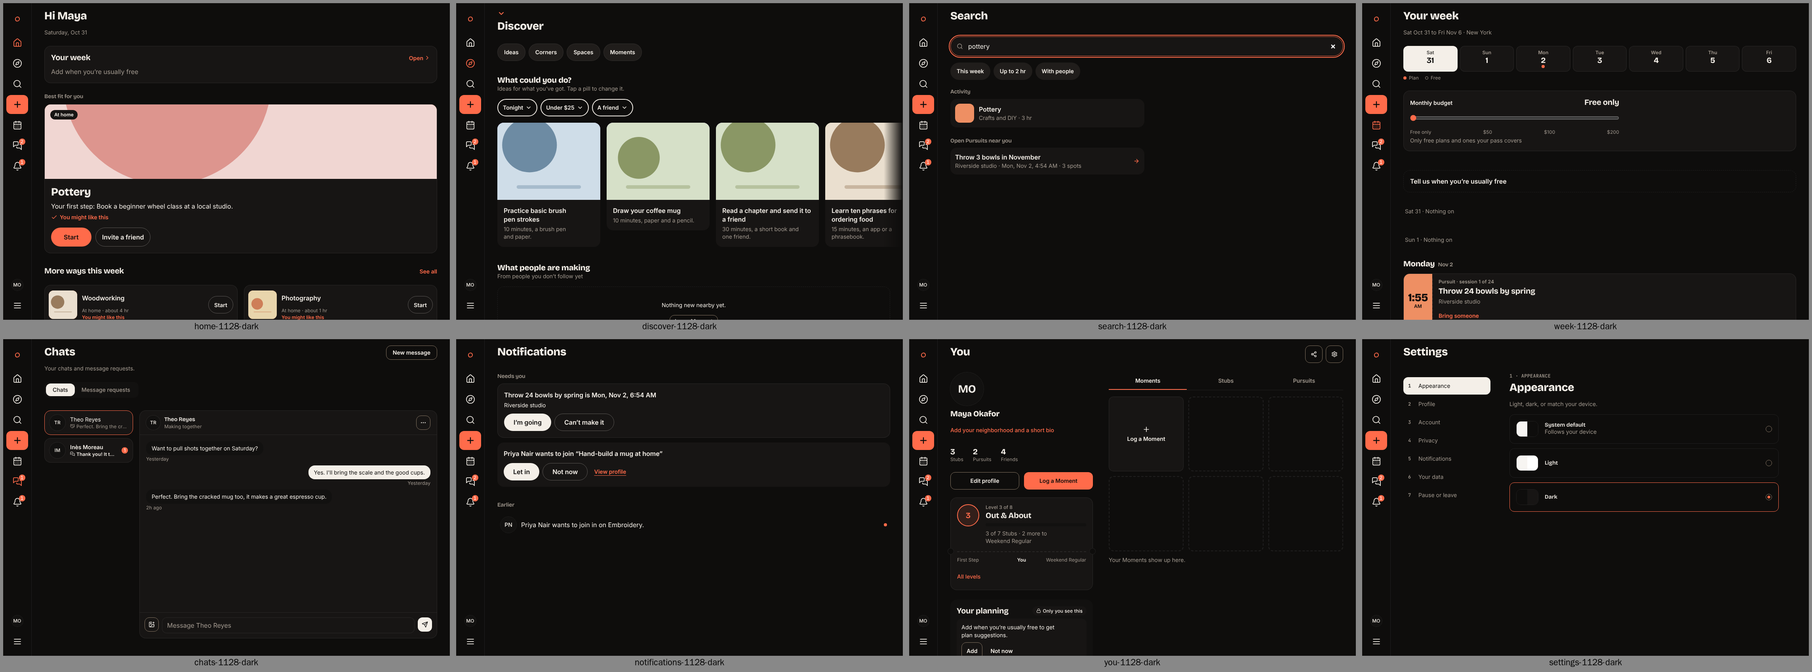
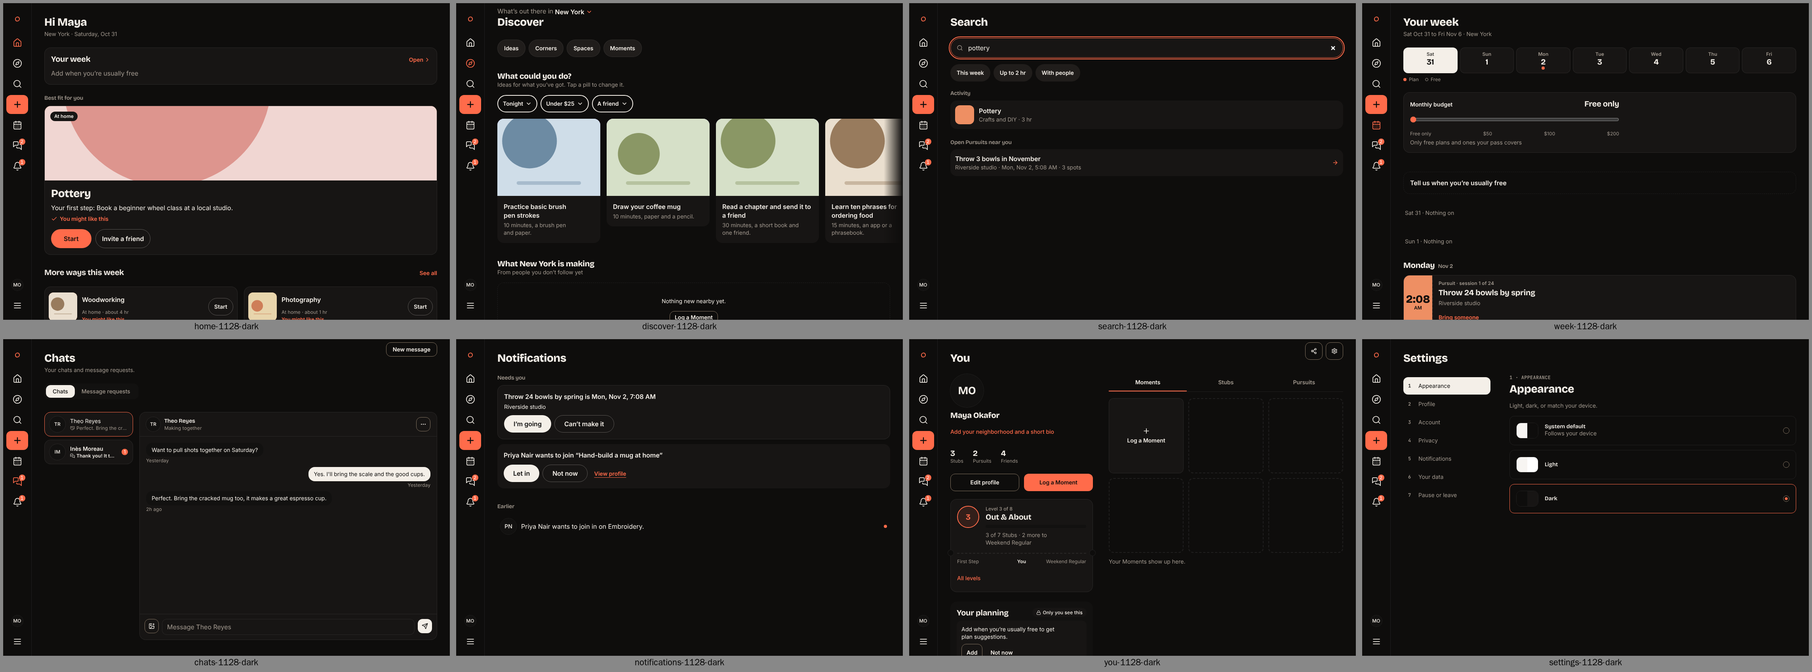
PR 5: every title at the same height, Near you kicker, Settings and Search fill the page width, strict Playwright title check
Claude-Session: https://claude.ai/code/session_014X1CC4xnjowkQqhym65nm4

diff --git a/scripts/visual/page-shell.ts b/scripts/visual/page-shell.ts
@@ -6,8 +6,8 @@
 //
 // Checks, per page / width / theme:
 //   - the visible title: the element that actually holds the title's text (not just the <h1>) is 28px / 800
-//   - the header's top, the title's left and the content width are the same on every page at a given width
-//     (a kicker line, Discover's, only moves its title down by its own height)
+//   - the rendered title text (its height, left and top) and the header row (left and right edge) agree between
+//     every page to within 1px at each width and theme
 //   - at most one coral fill inside the page (the rail's Log sits outside it)
 //   - no sideways page scroll
 //   - no hard-clipped row: a sideways scroller with more to see must bleed to the screen edge on a phone, and fade
@@ -49,6 +49,21 @@ function measure() {
     for (let n = w.nextNode(); n; n = w.nextNode()) if ((n.textContent ?? "").trim()) { holder = n.parentElement; break; }
   }
   const hs = holder ? getComputedStyle(holder) : null;
+  // The rendered text itself (what the eye sees), not a box that could be taller than its words.
+  let text = { left: -1, top: -1, height: -1 };
+  if (h1) {
+    const w2 = document.createTreeWalker(h1, NodeFilter.SHOW_TEXT);
+    for (let n = w2.nextNode(); n; n = w2.nextNode()) {
+      if (!(n.textContent ?? "").trim()) continue;
+      const rg = document.createRange();
+      rg.selectNodeContents(n);
+      const rr = rg.getBoundingClientRect();
+      text = { left: Math.round(rr.left * 10) / 10, top: Math.round(rr.top * 10) / 10, height: Math.round(rr.height * 10) / 10 };
+      break;
+    }
+  }
+  const row = h1?.closest("header")?.firstElementChild as HTMLElement | null;
+  const rowRect = row?.getBoundingClientRect();
   const inner = h1?.closest("header")?.parentElement as HTMLElement | null;
   const coral = [...document.querySelectorAll("main *")].filter((e) => {
     const b = e.getBoundingClientRect();
@@ -91,6 +106,11 @@ function measure() {
     headerTop: Math.round(header?.getBoundingClientRect().top ?? -1),
     kickerH,
     subLines,
+    textLeft: text.left,
+    textTop: text.top,
+    textH: text.height,
+    rowLeft: Math.round((rowRect?.left ?? -1) * 10) / 10,
+    rowRight: Math.round((rowRect?.right ?? -1) * 10) / 10,
     title: h1?.textContent?.trim().slice(0, 28) ?? "-",
     h1Size: h1 ? getComputedStyle(h1).fontSize : "-",
     size: hs?.fontSize ?? "-",
@@ -105,8 +125,8 @@ function measure() {
 }
 
 /**
- * --selftest: prove the checks can fail. Strips the edge fade from every row and shrinks the titles, on Week and
- * Discover at 1440, and fails unless the clip and the size checks both fire.
+ * --selftest: prove the checks can fail. Strips the edge fade from every row, shrinks the titles and pushes one
+ * title down 6px, on Week and Discover at 1440, and fails unless the clip, size and position checks all fire.
  */
 const selftest = async () => {
   const dist = path.resolve(opt("dist") ?? path.join(OUT, ".dist"));
@@ -116,6 +136,7 @@ const selftest = async () => {
   const port = (server.address() as { port: number }).port;
   const browser = await chromium.launch({ executablePath: process.env.PLAYWRIGHT_CHROMIUM });
   let clips = 0, sizes = 0;
+  const tops: number[] = [];
   for (const [, route] of PAGES.filter(([n]) => n === "week" || n === "discover")) {
     const ctx = await browser.newContext({ viewport: { width: 1440, height: 900 }, colorScheme: "light", reducedMotion: "reduce" });
     await installSupabaseMock(ctx, buildFixtures(), path.join(HERE, "database.types.ts"));
@@ -124,15 +145,19 @@ const selftest = async () => {
     await p.goto(`http://localhost:${port}/#${route}`);
     await p.waitForTimeout(2200);
     await p.addStyleTag({ content: "main * { mask-image: none !important; -webkit-mask-image: none !important } main h1, main h1 * { font-size: 22px !important }" });
+    // The second page also gets its title pushed down 6px: the equality check must see that.
+    if (tops.length === 1) await p.evaluate(() => { const h = document.querySelector("main h1") as HTMLElement; h.style.position = "relative"; h.style.top = "6px"; });
     const m = await p.evaluate(measure);
     clips += m.clips.length;
     if (m.size !== "28px") sizes++;
+    tops.push(m.textTop);
     await ctx.close();
   }
   await browser.close();
   server.close();
-  console.log(`selftest: ${clips} clip finding(s), ${sizes} size finding(s)`);
-  process.exit(clips > 0 && sizes > 0 ? 0 : 1);
+  const offset = tops.length === 2 && Math.abs(tops[0] - tops[1]) > 1;
+  console.log(`selftest: ${clips} clip finding(s), ${sizes} size finding(s), title offset ${offset ? "seen" : "NOT seen"}`);
+  process.exit(clips > 0 && sizes > 0 && offset ? 0 : 1);
 };
 
 const main = async () => {
@@ -171,19 +196,19 @@ const main = async () => {
     if (r.over !== 0) fails.push(`${id}: sideways scroll of ${r.over}px`);
     for (const c of r.clips) fails.push(`${id}: clipped: ${c}`);
   }
+  // Every page's title, as rendered, must agree to within 1px at each width and theme: the height of its text, and
+  // the left and top of the text and the left and right of the header row it sits in.
+  const TOL = 1;
   for (const w of WIDTHS) for (const th of THEMES) {
     const sub = rows.filter((r) => r.w === w && r.th === th);
-    // The header starts at the same place on every page. A page with a kicker line (Discover) has its title that much lower, and no more.
-    const lowered = sub.filter((r) => Math.abs(r.top - r.headerTop - r.kickerH) > 1);
-    for (const r of lowered) fails.push(`@${w} ${th}: ${r.page} title is ${r.top - r.headerTop}px below its header, its kicker is ${r.kickerH}px`);
-    for (const k of ["left", "width", "headerTop"] as const) {
-      const vals = new Set(sub.map((r) => r[k]));
-      if (vals.size > 1) fails.push(`@${w} ${th}: title ${k} differs: ${sub.map((r) => `${r.page}=${r[k]}`).join(", ")}`);
+    for (const k of ["textH", "textLeft", "textTop", "rowLeft", "rowRight", "headerTop", "width"] as const) {
+      const vals = sub.map((r) => r[k]);
+      if (Math.max(...vals) - Math.min(...vals) > TOL) fails.push(`@${w} ${th}: title ${k} differs by more than ${TOL}px: ${sub.map((r) => `${r.page}=${r[k]}`).join(", ")}`);
     }
   }
 
-  const md = ["# One skin, PR 5: measurements", "", "Measured in the browser against the fixture build. `Size / weight` is that of the element holding the title text, not only the h1. `Coral` counts coral fills inside the page (the rail's Log is outside it). `Clips` counts hard-clipped rows or boxes. The subtitle must be one line.", "", "| Width | Theme | Page | Title | Size / weight | Left | Header top | Title top | Kicker | Content | Coral | Sideways | Clips |", "|---|---|---|---|---|---|---|---|---|---|---|---|---|",
-    ...rows.map((r) => `| ${r.w} | ${r.th} | ${r.page} | ${r.title} | ${r.size} / ${r.weight} | ${r.left} | ${r.headerTop} | ${r.top} | ${r.kickerH} | ${r.width} | ${r.coral} | ${r.over} | ${r.clips.length} |`), "", fails.length ? `## Failures (${fails.length})\n\n${fails.map((f) => `- ${f}`).join("\n")}` : "## Result\n\nAll checks pass."];
+  const md = ["# One skin, PR 5: measurements", "", "Measured in the browser against the fixture build. `Size / weight` is that of the element holding the title text, not only the h1. `Text height`, `Text left` and `Text top` are the rendered words (a DOM range), and `Row left` / `Row right` the header row; the check fails if any page differs from another by more than 1px. `Coral` counts coral fills inside the page (the rail's Log is outside it). `Clips` counts hard-clipped rows or boxes. The subtitle must be one line.", "", "| Width | Theme | Page | Title | Size / weight | Text height | Text left | Text top | Row left | Row right | Header top | Content | Coral | Sideways | Clips |", "|---|---|---|---|---|---|---|---|---|---|---|---|---|---|---|",
+    ...rows.map((r) => `| ${r.w} | ${r.th} | ${r.page} | ${r.title} | ${r.size} / ${r.weight} | ${r.textH} | ${r.textLeft} | ${r.textTop} | ${r.rowLeft} | ${r.rowRight} | ${r.headerTop} | ${r.width} | ${r.coral} | ${r.over} | ${r.clips.length} |`), "", fails.length ? `## Failures (${fails.length})\n\n${fails.map((f) => `- ${f}`).join("\n")}` : "## Result\n\nAll checks pass."];
   fs.writeFileSync(path.join(OUT, "measurements.md"), md.join("\n") + "\n");
 
   const has = spawnSync("which", ["montage"]).status === 0;

diff --git a/src/app/components/layout/PageShell.tsx b/src/app/components/layout/PageShell.tsx
@@ -10,8 +10,8 @@ import type { HTMLAttributes, ReactNode } from "react";
  * - Header: the same top offset everywhere; the title in `text-title`
  *   (28px/800 Bricolage), an optional one-line subtitle in the muted colour, an
  *   optional action on the right. No back arrow: tab pages are not drilled into.
- *   `kicker` is the one extra line, above the title, for Discover's "What's out
- *   there in" over the city.
+ *   `kicker` is the one extra line, above the title (Discover's city picker). Its
+ *   row is reserved on every page, so no title is lower than another.
  * - Grids: lists are `PAGE_GRID` (one column, two from `desk`). A single-purpose
  *   card (Your week, Best fit for you, the glance card) spans both columns:
  *   `SPAN_GRID`. That is the one rule for those cards, on every page.
@@ -24,7 +24,7 @@ export const LIST_GRID = "grid gap-3 desk:grid-cols-2 desk:gap-4";
 /** The container alone, for a page you drill into (another person's profile) that keeps its own back bar. */
 export function PageContainer({ children, ...rest }: { children?: ReactNode } & HTMLAttributes<HTMLDivElement>) {
   return (
-    <div className="w-full px-4 pb-10 pt-4 tab:px-6 desk:px-8 max-desk:pt-[calc(var(--safe-top)+1rem)]" {...rest}>
+    <div className="w-full px-4 pb-10 pt-2 tab:px-6 desk:px-8 max-desk:pt-[calc(var(--safe-top)+0.5rem)]" {...rest}>
       <div className="mx-auto w-full max-w-[1040px]">{children}</div>
     </div>
   );
@@ -48,13 +48,14 @@ export function PageShell({
   children?: ReactNode;
 } & Omit<HTMLAttributes<HTMLDivElement>, "title">) {
   return (
-    <div className="w-full px-4 pb-10 pt-4 tab:px-6 desk:px-8 max-desk:pt-[calc(var(--safe-top)+1rem)]" {...rest}>
+    <div className="w-full px-4 pb-10 pt-2 tab:px-6 desk:px-8 max-desk:pt-[calc(var(--safe-top)+0.5rem)]" {...rest}>
       <div className="mx-auto w-full max-w-[1040px]">
         {topBar}
         <header className="mb-6">
           <div className="flex min-h-11 items-start justify-between gap-4">
-            <div className="min-w-0">
-              {kicker && <p className="text-body text-muted-foreground">{kicker}</p>}
+            <div className="min-w-0 flex-1">
+              {/* The kicker row is on every page, empty or not, so every title sits at the same height. */}
+              <p className="h-6 whitespace-nowrap text-body text-muted-foreground">{kicker}</p>
               <h1 className="text-title">{title}</h1>
             </div>
             {action && <div className="shrink-0">{action}</div>}

diff --git a/scripts/visual/fixtures.ts b/scripts/visual/fixtures.ts
@@ -164,5 +164,5 @@ export function buildFixtures(now = new Date()): Fixtures {
   // config.ts (which can't be imported here: it reads import.meta.env).
   const termsVersion = fs.readFileSync(new URL("../../src/app/config.ts", import.meta.url), "utf8").match(/TERMS_VERSION = "([^"]+)"/)?.[1] ?? "";
   const terms_acceptances = profiles.map((p) => ({ user_id: p.id, terms_version: termsVersion, accepted_at: ago(119) }));
-  return { ...empties, ...({ pursuit_sessions, pursuit_session_rsvps: [], stubs } as unknown as Fixtures), profile_follows, terms_acceptances, profiles, posts, pursuits, pursuit_members, pursuit_plans, pursuit_progress, spaces, space_members, space_moments, space_events, event_rsvps, participations, messages, notifications, profile_settings, app_config, categories };
+  return { ...empties, ...({ pursuit_sessions, pursuit_session_rsvps: [], stubs, profile_private: [{ user_id: ME, city: "New York" }] } as unknown as Fixtures), profile_follows, terms_acceptances, profiles, posts, pursuits, pursuit_members, pursuit_plans, pursuit_progress, spaces, space_members, space_moments, space_events, event_rsvps, participations, messages, notifications, profile_settings, app_config, categories };
 }

diff --git a/src/app/pages/Discover.tsx b/src/app/pages/Discover.tsx
@@ -323,11 +323,11 @@ export function Discover() {
           ) : (
             <button
               type="button"
-              aria-label="Your city"
               onClick={() => needAccount(() => setCityOpen(true))}
-              className="inline-flex items-center outline-none focus-visible:ring-2 focus-visible:ring-ring"
+              className="inline-flex items-center gap-1 align-middle font-semibold text-foreground outline-none focus-visible:ring-2 focus-visible:ring-ring"
             >
-              <ChevronDown className="size-5 shrink-0 text-accent-text" strokeWidth={2.5} aria-hidden="true" />
+              Near you
+              <ChevronDown className="size-4 shrink-0 text-accent-text" strokeWidth={2.5} aria-hidden="true" />
             </button>
           )
         }

diff --git a/src/app/pages/SearchResults.tsx b/src/app/pages/SearchResults.tsx
@@ -36,7 +36,7 @@ function Section({ id, title, children }: { id: string; title: string; children:
       <h2 id={id} className="mb-2 text-small font-semibold text-muted-foreground">
         {title}
       </h2>
-      <ul className="grid gap-2 desk:grid-cols-2 desk:gap-3">{children}</ul>
+      <ul className="flex flex-col gap-2">{children}</ul>
     </section>
   );
 }

diff --git a/src/app/components/settings/SettingsShell.tsx b/src/app/components/settings/SettingsShell.tsx
@@ -87,7 +87,7 @@ export function SettingsShell({
             })}
           </ul>
         </nav>
-        <div className="max-w-[680px]">{children}</div>
+        <div className="min-w-0">{children}</div>
       </div>
 
       {/* Mobile / below lg */}

diff --git a/docs/qa/one-skin/pr5/measurements.md b/docs/qa/one-skin/pr5/measurements.md
@@ -1,73 +1,73 @@
 # One skin, PR 5: measurements
 
-Measured in the browser against the fixture build. `Size / weight` is that of the element holding the title text, not only the h1. `Coral` counts coral fills inside the page (the rail's Log is outside it). `Clips` counts hard-clipped rows or boxes. The subtitle must be one line.
+Measured in the browser against the fixture build. `Size / weight` is that of the element holding the title text, not only the h1. `Text height`, `Text left` and `Text top` are the rendered words (a DOM range), and `Row left` / `Row right` the header row; the check fails if any page differs from another by more than 1px. `Coral` counts coral fills inside the page (the rail's Log is outside it). `Clips` counts hard-clipped rows or boxes. The subtitle must be one line.
 
-| Width | Theme | Page | Title | Size / weight | Left | Header top | Title top | Kicker | Content | Coral | Sideways | Clips |
-|---|---|---|---|---|---|---|---|---|---|---|---|---|
-| 390 | light | home | Hi Maya | 28px / 800 | 16 | 81 | 81 | 0 | 358 | 1 | 0 | 0 |
-| 390 | light | discover | Discover | 28px / 800 | 16 | 81 | 107 | 26 | 358 | 0 | 0 | 0 |
-| 390 | light | search | Search | 28px / 800 | 16 | 81 | 81 | 0 | 358 | 0 | 0 | 0 |
-| 390 | light | week | Your week | 28px / 800 | 16 | 81 | 81 | 0 | 358 | 0 | 0 | 0 |
-| 390 | light | chats | Chats | 28px / 800 | 16 | 81 | 81 | 0 | 358 | 0 | 0 | 0 |
-| 390 | light | notifications | Notifications | 28px / 800 | 16 | 81 | 81 | 0 | 358 | 0 | 0 | 0 |
-| 390 | light | you | You | 28px / 800 | 16 | 81 | 81 | 0 | 358 | 1 | 0 | 0 |
-| 390 | light | settings | Settings | 28px / 800 | 16 | 81 | 81 | 0 | 358 | 0 | 0 | 0 |
-| 744 | light | home | Hi Maya | 28px / 800 | 96 | 16 | 16 | 0 | 624 | 1 | 0 | 0 |
-| 744 | light | discover | Discover | 28px / 800 | 96 | 16 | 42 | 26 | 624 | 0 | 0 | 0 |
-| 744 | light | search | Search | 28px / 800 | 96 | 16 | 16 | 0 | 624 | 0 | 0 | 0 |
-| 744 | light | week | Your week | 28px / 800 | 96 | 16 | 16 | 0 | 624 | 0 | 0 | 0 |
-| 744 | light | chats | Chats | 28px / 800 | 96 | 16 | 16 | 0 | 624 | 0 | 0 | 0 |
-| 744 | light | notifications | Notifications | 28px / 800 | 96 | 16 | 16 | 0 | 624 | 0 | 0 | 0 |
-| 744 | light | you | You | 28px / 800 | 96 | 16 | 16 | 0 | 624 | 1 | 0 | 0 |
-| 744 | light | settings | Settings | 28px / 800 | 96 | 16 | 16 | 0 | 624 | 0 | 0 | 0 |
-| 1128 | light | home | Hi Maya | 28px / 800 | 104 | 16 | 16 | 0 | 992 | 1 | 0 | 0 |
-| 1128 | light | discover | Discover | 28px / 800 | 104 | 16 | 42 | 26 | 992 | 0 | 0 | 0 |
-| 1128 | light | search | Search | 28px / 800 | 104 | 16 | 16 | 0 | 992 | 0 | 0 | 0 |
-| 1128 | light | week | Your week | 28px / 800 | 104 | 16 | 16 | 0 | 992 | 0 | 0 | 0 |
-| 1128 | light | chats | Chats | 28px / 800 | 104 | 16 | 16 | 0 | 992 | 0 | 0 | 0 |
-| 1128 | light | notifications | Notifications | 28px / 800 | 104 | 16 | 16 | 0 | 992 | 0 | 0 | 0 |
-| 1128 | light | you | You | 28px / 800 | 104 | 16 | 16 | 0 | 992 | 1 | 0 | 0 |
-| 1128 | light | settings | Settings | 28px / 800 | 104 | 16 | 16 | 0 | 992 | 0 | 0 | 0 |
-| 1440 | light | home | Hi Maya | 28px / 800 | 320 | 16 | 16 | 0 | 1040 | 1 | 0 | 0 |
-| 1440 | light | discover | Discover | 28px / 800 | 320 | 16 | 42 | 26 | 1040 | 0 | 0 | 0 |
-| 1440 | light | search | Search | 28px / 800 | 320 | 16 | 16 | 0 | 1040 | 0 | 0 | 0 |
-| 1440 | light | week | Your week | 28px / 800 | 320 | 16 | 16 | 0 | 1040 | 0 | 0 | 0 |
-| 1440 | light | chats | Chats | 28px / 800 | 320 | 16 | 16 | 0 | 1040 | 0 | 0 | 0 |
-| 1440 | light | notifications | Notifications | 28px / 800 | 320 | 16 | 16 | 0 | 1040 | 0 | 0 | 0 |
-| 1440 | light | you | You | 28px / 800 | 320 | 16 | 16 | 0 | 1040 | 1 | 0 | 0 |
-| 1440 | light | settings | Settings | 28px / 800 | 320 | 16 | 16 | 0 | 1040 | 0 | 0 | 0 |
-| 390 | dark | home | Hi Maya | 28px / 800 | 16 | 81 | 81 | 0 | 358 | 1 | 0 | 0 |
-| 390 | dark | discover | Discover | 28px / 800 | 16 | 81 | 107 | 26 | 358 | 0 | 0 | 0 |
-| 390 | dark | search | Search | 28px / 800 | 16 | 81 | 81 | 0 | 358 | 0 | 0 | 0 |
-| 390 | dark | week | Your week | 28px / 800 | 16 | 81 | 81 | 0 | 358 | 0 | 0 | 0 |
-| 390 | dark | chats | Chats | 28px / 800 | 16 | 81 | 81 | 0 | 358 | 1 | 0 | 0 |
-| 390 | dark | notifications | Notifications | 28px / 800 | 16 | 81 | 81 | 0 | 358 | 0 | 0 | 0 |
-| 390 | dark | you | You | 28px / 800 | 16 | 81 | 81 | 0 | 358 | 1 | 0 | 0 |
-| 390 | dark | settings | Settings | 28px / 800 | 16 | 81 | 81 | 0 | 358 | 0 | 0 | 0 |
-| 744 | dark | home | Hi Maya | 28px / 800 | 96 | 16 | 16 | 0 | 624 | 1 | 0 | 0 |
-| 744 | dark | discover | Discover | 28px / 800 | 96 | 16 | 42 | 26 | 624 | 0 | 0 | 0 |
-| 744 | dark | search | Search | 28px / 800 | 96 | 16 | 16 | 0 | 624 | 0 | 0 | 0 |
-| 744 | dark | week | Your week | 28px / 800 | 96 | 16 | 16 | 0 | 624 | 0 | 0 | 0 |
-| 744 | dark | chats | Chats | 28px / 800 | 96 | 16 | 16 | 0 | 624 | 1 | 0 | 0 |
-| 744 | dark | notifications | Notifications | 28px / 800 | 96 | 16 | 16 | 0 | 624 | 0 | 0 | 0 |
-| 744 | dark | you | You | 28px / 800 | 96 | 16 | 16 | 0 | 624 | 1 | 0 | 0 |
-| 744 | dark | settings | Settings | 28px / 800 | 96 | 16 | 16 | 0 | 624 | 0 | 0 | 0 |
-| 1128 | dark | home | Hi Maya | 28px / 800 | 104 | 16 | 16 | 0 | 992 | 1 | 0 | 0 |
-| 1128 | dark | discover | Discover | 28px / 800 | 104 | 16 | 42 | 26 | 992 | 0 | 0 | 0 |
-| 1128 | dark | search | Search | 28px / 800 | 104 | 16 | 16 | 0 | 992 | 0 | 0 | 0 |
-| 1128 | dark | week | Your week | 28px / 800 | 104 | 16 | 16 | 0 | 992 | 0 | 0 | 0 |
-| 1128 | dark | chats | Chats | 28px / 800 | 104 | 16 | 16 | 0 | 992 | 1 | 0 | 0 |
-| 1128 | dark | notifications | Notifications | 28px / 800 | 104 | 16 | 16 | 0 | 992 | 0 | 0 | 0 |
-| 1128 | dark | you | You | 28px / 800 | 104 | 16 | 16 | 0 | 992 | 1 | 0 | 0 |
-| 1128 | dark | settings | Settings | 28px / 800 | 104 | 16 | 16 | 0 | 992 | 0 | 0 | 0 |
-| 1440 | dark | home | Hi Maya | 28px / 800 | 320 | 16 | 16 | 0 | 1040 | 1 | 0 | 0 |
-| 1440 | dark | discover | Discover | 28px / 800 | 320 | 16 | 42 | 26 | 1040 | 0 | 0 | 0 |
-| 1440 | dark | search | Search | 28px / 800 | 320 | 16 | 16 | 0 | 1040 | 0 | 0 | 0 |
-| 1440 | dark | week | Your week | 28px / 800 | 320 | 16 | 16 | 0 | 1040 | 0 | 0 | 0 |
-| 1440 | dark | chats | Chats | 28px / 800 | 320 | 16 | 16 | 0 | 1040 | 1 | 0 | 0 |
-| 1440 | dark | notifications | Notifications | 28px / 800 | 320 | 16 | 16 | 0 | 1040 | 0 | 0 | 0 |
-| 1440 | dark | you | You | 28px / 800 | 320 | 16 | 16 | 0 | 1040 | 1 | 0 | 0 |
-| 1440 | dark | settings | Settings | 28px / 800 | 320 | 16 | 16 | 0 | 1040 | 0 | 0 | 0 |
+| Width | Theme | Page | Title | Size / weight | Text height | Text left | Text top | Row left | Row right | Header top | Content | Coral | Sideways | Clips |
+|---|---|---|---|---|---|---|---|---|---|---|---|---|---|---|
+| 390 | light | home | Hi Maya | 28px / 800 | 34 | 16 | 96 | 16 | 374 | 73 | 358 | 1 | 0 | 0 |
+| 390 | light | discover | Discover | 28px / 800 | 34 | 16 | 96 | 16 | 374 | 73 | 358 | 0 | 0 | 0 |
+| 390 | light | search | Search | 28px / 800 | 34 | 16 | 96 | 16 | 374 | 73 | 358 | 0 | 0 | 0 |
+| 390 | light | week | Your week | 28px / 800 | 34 | 16 | 96 | 16 | 374 | 73 | 358 | 0 | 0 | 0 |
+| 390 | light | chats | Chats | 28px / 800 | 34 | 16 | 96 | 16 | 374 | 73 | 358 | 0 | 0 | 0 |
+| 390 | light | notifications | Notifications | 28px / 800 | 34 | 16 | 96 | 16 | 374 | 73 | 358 | 0 | 0 | 0 |
+| 390 | light | you | You | 28px / 800 | 34 | 16 | 96 | 16 | 374 | 73 | 358 | 1 | 0 | 0 |
+| 390 | light | settings | Settings | 28px / 800 | 34 | 16 | 96 | 16 | 374 | 73 | 358 | 0 | 0 | 0 |
+| 744 | light | home | Hi Maya | 28px / 800 | 34 | 96 | 31 | 96 | 720 | 8 | 624 | 1 | 0 | 0 |
+| 744 | light | discover | Discover | 28px / 800 | 34 | 96 | 31 | 96 | 720 | 8 | 624 | 0 | 0 | 0 |
+| 744 | light | search | Search | 28px / 800 | 34 | 96 | 31 | 96 | 720 | 8 | 624 | 0 | 0 | 0 |
+| 744 | light | week | Your week | 28px / 800 | 34 | 96 | 31 | 96 | 720 | 8 | 624 | 0 | 0 | 0 |
+| 744 | light | chats | Chats | 28px / 800 | 34 | 96 | 31 | 96 | 720 | 8 | 624 | 0 | 0 | 0 |
+| 744 | light | notifications | Notifications | 28px / 800 | 34 | 96 | 31 | 96 | 720 | 8 | 624 | 0 | 0 | 0 |
+| 744 | light | you | You | 28px / 800 | 34 | 96 | 31 | 96 | 720 | 8 | 624 | 1 | 0 | 0 |
+| 744 | light | settings | Settings | 28px / 800 | 34 | 96 | 31 | 96 | 720 | 8 | 624 | 0 | 0 | 0 |
+| 1128 | light | home | Hi Maya | 28px / 800 | 34 | 104 | 31 | 104 | 1096 | 8 | 992 | 1 | 0 | 0 |
+| 1128 | light | discover | Discover | 28px / 800 | 34 | 104 | 31 | 104 | 1096 | 8 | 992 | 0 | 0 | 0 |
+| 1128 | light | search | Search | 28px / 800 | 34 | 104 | 31 | 104 | 1096 | 8 | 992 | 0 | 0 | 0 |
+| 1128 | light | week | Your week | 28px / 800 | 34 | 104 | 31 | 104 | 1096 | 8 | 992 | 0 | 0 | 0 |
+| 1128 | light | chats | Chats | 28px / 800 | 34 | 104 | 31 | 104 | 1096 | 8 | 992 | 0 | 0 | 0 |
+| 1128 | light | notifications | Notifications | 28px / 800 | 34 | 104 | 31 | 104 | 1096 | 8 | 992 | 0 | 0 | 0 |
+| 1128 | light | you | You | 28px / 800 | 34 | 104 | 31 | 104 | 1096 | 8 | 992 | 1 | 0 | 0 |
+| 1128 | light | settings | Settings | 28px / 800 | 34 | 104 | 31 | 104 | 1096 | 8 | 992 | 0 | 0 | 0 |
+| 1440 | light | home | Hi Maya | 28px / 800 | 34 | 320 | 31 | 320 | 1360 | 8 | 1040 | 1 | 0 | 0 |
+| 1440 | light | discover | Discover | 28px / 800 | 34 | 320 | 31 | 320 | 1360 | 8 | 1040 | 0 | 0 | 0 |
+| 1440 | light | search | Search | 28px / 800 | 34 | 320 | 31 | 320 | 1360 | 8 | 1040 | 0 | 0 | 0 |
+| 1440 | light | week | Your week | 28px / 800 | 34 | 320 | 31 | 320 | 1360 | 8 | 1040 | 0 | 0 | 0 |
+| 1440 | light | chats | Chats | 28px / 800 | 34 | 320 | 31 | 320 | 1360 | 8 | 1040 | 0 | 0 | 0 |
+| 1440 | light | notifications | Notifications | 28px / 800 | 34 | 320 | 31 | 320 | 1360 | 8 | 1040 | 0 | 0 | 0 |
+| 1440 | light | you | You | 28px / 800 | 34 | 320 | 31 | 320 | 1360 | 8 | 1040 | 1 | 0 | 0 |
+| 1440 | light | settings | Settings | 28px / 800 | 34 | 320 | 31 | 320 | 1360 | 8 | 1040 | 0 | 0 | 0 |
+| 390 | dark | home | Hi Maya | 28px / 800 | 34 | 16 | 96 | 16 | 374 | 73 | 358 | 1 | 0 | 0 |
+| 390 | dark | discover | Discover | 28px / 800 | 34 | 16 | 96 | 16 | 374 | 73 | 358 | 0 | 0 | 0 |
+| 390 | dark | search | Search | 28px / 800 | 34 | 16 | 96 | 16 | 374 | 73 | 358 | 0 | 0 | 0 |
+| 390 | dark | week | Your week | 28px / 800 | 34 | 16 | 96 | 16 | 374 | 73 | 358 | 0 | 0 | 0 |
+| 390 | dark | chats | Chats | 28px / 800 | 34 | 16 | 96 | 16 | 374 | 73 | 358 | 1 | 0 | 0 |
+| 390 | dark | notifications | Notifications | 28px / 800 | 34 | 16 | 96 | 16 | 374 | 73 | 358 | 0 | 0 | 0 |
+| 390 | dark | you | You | 28px / 800 | 34 | 16 | 96 | 16 | 374 | 73 | 358 | 1 | 0 | 0 |
+| 390 | dark | settings | Settings | 28px / 800 | 34 | 16 | 96 | 16 | 374 | 73 | 358 | 0 | 0 | 0 |
+| 744 | dark | home | Hi Maya | 28px / 800 | 34 | 96 | 31 | 96 | 720 | 8 | 624 | 1 | 0 | 0 |
+| 744 | dark | discover | Discover | 28px / 800 | 34 | 96 | 31 | 96 | 720 | 8 | 624 | 0 | 0 | 0 |
+| 744 | dark | search | Search | 28px / 800 | 34 | 96 | 31 | 96 | 720 | 8 | 624 | 0 | 0 | 0 |
+| 744 | dark | week | Your week | 28px / 800 | 34 | 96 | 31 | 96 | 720 | 8 | 624 | 0 | 0 | 0 |
+| 744 | dark | chats | Chats | 28px / 800 | 34 | 96 | 31 | 96 | 720 | 8 | 624 | 1 | 0 | 0 |
+| 744 | dark | notifications | Notifications | 28px / 800 | 34 | 96 | 31 | 96 | 720 | 8 | 624 | 0 | 0 | 0 |
+| 744 | dark | you | You | 28px / 800 | 34 | 96 | 31 | 96 | 720 | 8 | 624 | 1 | 0 | 0 |
+| 744 | dark | settings | Settings | 28px / 800 | 34 | 96 | 31 | 96 | 720 | 8 | 624 | 0 | 0 | 0 |
+| 1128 | dark | home | Hi Maya | 28px / 800 | 34 | 104 | 31 | 104 | 1096 | 8 | 992 | 1 | 0 | 0 |
+| 1128 | dark | discover | Discover | 28px / 800 | 34 | 104 | 31 | 104 | 1096 | 8 | 992 | 0 | 0 | 0 |
+| 1128 | dark | search | Search | 28px / 800 | 34 | 104 | 31 | 104 | 1096 | 8 | 992 | 0 | 0 | 0 |
+| 1128 | dark | week | Your week | 28px / 800 | 34 | 104 | 31 | 104 | 1096 | 8 | 992 | 0 | 0 | 0 |
+| 1128 | dark | chats | Chats | 28px / 800 | 34 | 104 | 31 | 104 | 1096 | 8 | 992 | 1 | 0 | 0 |
+| 1128 | dark | notifications | Notifications | 28px / 800 | 34 | 104 | 31 | 104 | 1096 | 8 | 992 | 0 | 0 | 0 |
+| 1128 | dark | you | You | 28px / 800 | 34 | 104 | 31 | 104 | 1096 | 8 | 992 | 1 | 0 | 0 |
+| 1128 | dark | settings | Settings | 28px / 800 | 34 | 104 | 31 | 104 | 1096 | 8 | 992 | 0 | 0 | 0 |
+| 1440 | dark | home | Hi Maya | 28px / 800 | 34 | 320 | 31 | 320 | 1360 | 8 | 1040 | 1 | 0 | 0 |
+| 1440 | dark | discover | Discover | 28px / 800 | 34 | 320 | 31 | 320 | 1360 | 8 | 1040 | 0 | 0 | 0 |
+| 1440 | dark | search | Search | 28px / 800 | 34 | 320 | 31 | 320 | 1360 | 8 | 1040 | 0 | 0 | 0 |
+| 1440 | dark | week | Your week | 28px / 800 | 34 | 320 | 31 | 320 | 1360 | 8 | 1040 | 0 | 0 | 0 |
+| 1440 | dark | chats | Chats | 28px / 800 | 34 | 320 | 31 | 320 | 1360 | 8 | 1040 | 1 | 0 | 0 |
+| 1440 | dark | notifications | Notifications | 28px / 800 | 34 | 320 | 31 | 320 | 1360 | 8 | 1040 | 0 | 0 | 0 |
+| 1440 | dark | you | You | 28px / 800 | 34 | 320 | 31 | 320 | 1360 | 8 | 1040 | 1 | 0 | 0 |
+| 1440 | dark | settings | Settings | 28px / 800 | 34 | 320 | 31 | 320 | 1360 | 8 | 1040 | 0 | 0 | 0 |
 
 ## Result
 

diff --git a/docs/glossary.md b/docs/glossary.md
@@ -658,7 +658,7 @@ The Discover page, as drawn on the Discover v2 artboard (founder approved the sc
 
 | Where | String |
 |---|---|
-| Header line | What’s out there in |
+| Header line | What’s out there in {city} ▾ above the title Discover. The city is the tappable part and opens the city sheet (title is always Discover, 28px/800) |
 | Search | Discover has no search box of its own (Oct 31, 2026). Search is the nav one: the header icon on a phone, the rail's Search panel from 744px ("Search Moments, people, Spaces") |
 | Jump chips | Ideas / Corners / Spaces / Moments |
 | Ideas heading / subline | What could you do? / Ideas for what you’ve got. Tap a pill to change it. |
@@ -687,7 +687,7 @@ Words around the page, approved Oct 31, 2026:
 | Ideas, nothing fits | Nothing fits that mix yet, with the link Show more ideas (it loosens Spend to Treat me) |
 | Feed, nothing new | Nothing new nearby yet, with the link Log a Moment |
 | Feed heading with no city saved | What people are making |
-| Header with no city saved | Discover |
+| Header with no city saved | Discover. The line above it reads "Near you" (founder, Oct 31, 2026) and opens the city sheet |
 | After you ask to follow an author | Requested (the button stays, disabled) |
 | Signed out, on Follow, Join, Ask to join or the city | Title: Make an account to do that. Body: Browsing stays open. An account is for following, joining and keeping what you make. Buttons: the existing Create an account and Keep looking around |
 | Pill accessible labels | Time: Tonight, Spend: Free, Who: A friend (the group, then the current value) |
